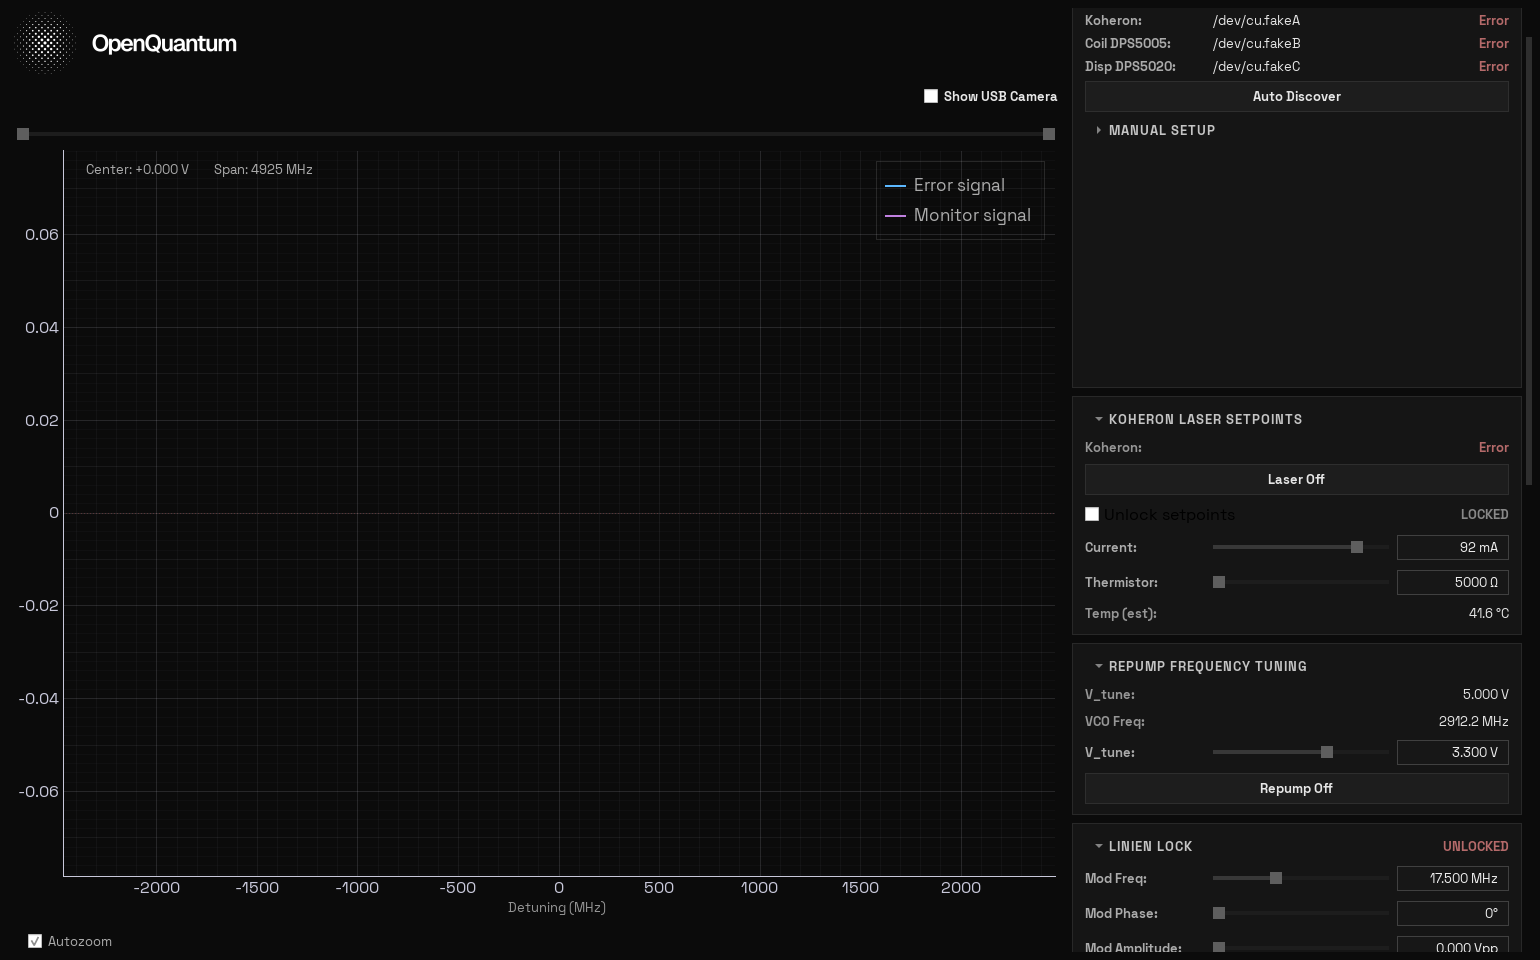
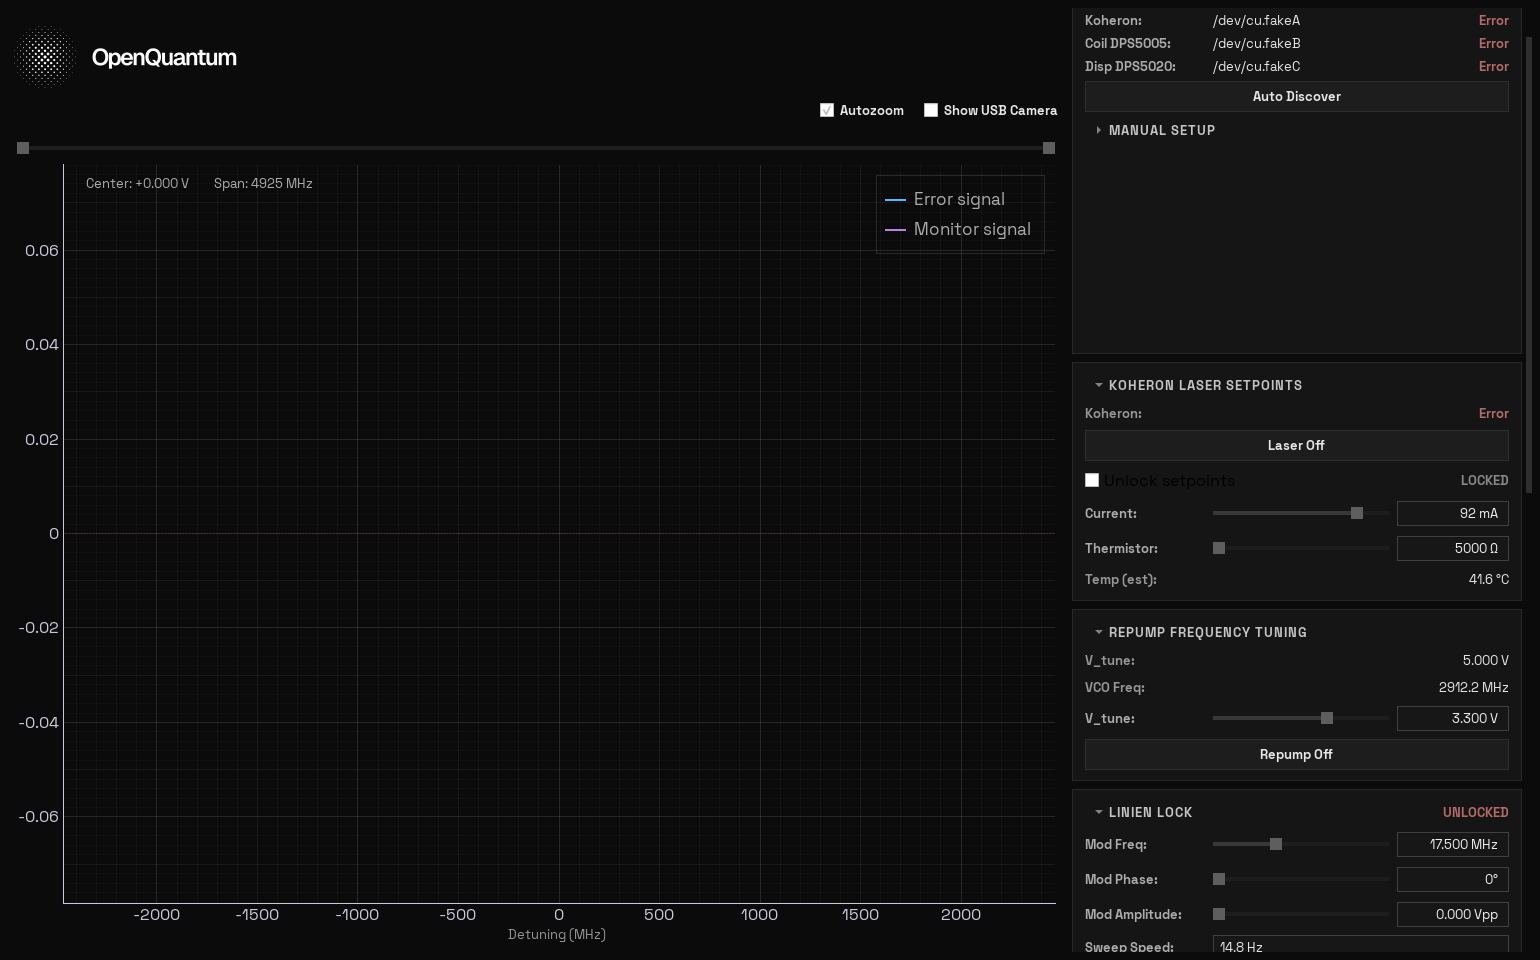
Move Autozoom beside the camera toggle; drop the A button and DPS Addr
pyqtgraph draws its own auto-range button -- a small "A" over the plot on
hover -- which Autozoom replaces, so hideButtons() turns it off.

Autozoom moves up beside Show USB Camera with the other view controls.
It is still built by the Linien widget, which owns the range logic, and
inserted into the view bar once that widget exists.

The DPS Modbus address spinboxes are gone from Manual setup. The
addresses are still settable via --mot-coil-address/--dispenser-address
and still persist, they just read from the attributes rather than from
widgets.

Logo drops 14px on its top padding.

diff --git a/mot_control.py b/mot_control.py
@@ -1097,7 +1097,7 @@ class OpenQuantumControlsWindow(QtWidgets.QMainWindow):
 
         title_row = QtWidgets.QHBoxLayout()
         self.title_label = QtWidgets.QLabel()
-        self.title_label.setStyleSheet("border: none; padding: 4px 6px;")
+        self.title_label.setStyleSheet("border: none; padding: 18px 6px 4px 6px;")
         logo = QtGui.QPixmap(resource_path("assets", "full-horizontal.png"))
         if logo.isNull():
             # Bundled asset missing (broken build): fall back to the
@@ -1166,6 +1166,16 @@ class OpenQuantumControlsWindow(QtWidgets.QMainWindow):
         self.linien_widget = LinienWidget(
             linien_host=self._rp_host,
             v_to_freq_ghz=V_TO_GHZ,
+        )
+        # Built by the Linien widget (it owns the range logic) but shown up
+        # here beside the camera toggle, with the other view controls.
+        view_bar.insertWidget(
+            view_bar.count() - 1, self.linien_widget.autozoom_check
+        )
+        self._tip(
+            "Keep the vertical range tracking the signal. Uncheck to hold\n"
+            "the current zoom.",
+            self.linien_widget.autozoom_check,
         )
         self.camera_widget = CameraViewWidget()
         self.camera_widget.setVisible(False)
@@ -1441,29 +1451,6 @@ class OpenQuantumControlsWindow(QtWidgets.QMainWindow):
             )
         )
 
-        addr_row = QtWidgets.QHBoxLayout()
-        addr_row.setSpacing(8)
-        addr_row.addWidget(self._small_label("DPS Addr:"))
-        self.mot_coil_addr_spin = QtWidgets.QSpinBox()
-        self.mot_coil_addr_spin.setRange(1, 247)
-        self.mot_coil_addr_spin.setValue(self._mot_coil_address)
-        self.mot_coil_addr_spin.setFixedWidth(72)
-        self.dispenser_addr_spin = QtWidgets.QSpinBox()
-        self.dispenser_addr_spin.setRange(1, 247)
-        self.dispenser_addr_spin.setValue(self._dispenser_address)
-        self.dispenser_addr_spin.setFixedWidth(72)
-        addr_row.addWidget(self._tiny_label("Coil"))
-        addr_row.addWidget(self.mot_coil_addr_spin)
-        addr_row.addWidget(self._tiny_label("Disp"))
-        addr_row.addWidget(self.dispenser_addr_spin)
-        addr_row.addStretch()
-        manual_layout.addLayout(addr_row)
-        self._tip(
-            "Modbus slave addresses of the DPS supplies (front panel\n"
-            "setting; usually 1).",
-            self.mot_coil_addr_spin,
-            self.dispenser_addr_spin,
-        )
 
         # No separate discovered-devices list: the dropdowns above are the
         # list. This line only reports how many were found.
@@ -2197,8 +2184,8 @@ class OpenQuantumControlsWindow(QtWidgets.QMainWindow):
                 "mot_coil": self.mot_coil_port_edit.text().strip(),
                 "dispenser": self.dispenser_port_edit.text().strip(),
             },
-            coil_address=self.mot_coil_addr_spin.value(),
-            dispenser_address=self.dispenser_addr_spin.value(),
+            coil_address=self._mot_coil_address,
+            dispenser_address=self._dispenser_address,
         )
         self.probe_worker.result.connect(
             lambda res: self._on_probe_result(res, startup)
@@ -2287,10 +2274,10 @@ class OpenQuantumControlsWindow(QtWidgets.QMainWindow):
             "dps/dispenser_port", self.dispenser_port_edit.text().strip()
         )
         self._settings.setValue(
-            "dps/mot_coil_address", self.mot_coil_addr_spin.value()
+            "dps/mot_coil_address", self._mot_coil_address
         )
         self._settings.setValue(
-            "dps/dispenser_address", self.dispenser_addr_spin.value()
+            "dps/dispenser_address", self._dispenser_address
         )
         self._settings.setValue("dac/vtune_min", self._vtune_min)
         self._settings.setValue("dac/vtune_max", self._vtune_max)
@@ -2312,7 +2299,7 @@ class OpenQuantumControlsWindow(QtWidgets.QMainWindow):
     def _start_dps_workers(self):
         self.mot_coil_worker = RidenDPSWorker(
             port=self.mot_coil_port_edit.text().strip(),
-            address=self.mot_coil_addr_spin.value(),
+            address=self._mot_coil_address,
             model="DPS5005",
         )
         self.mot_coil_worker.connection_status.connect(
@@ -2329,7 +2316,7 @@ class OpenQuantumControlsWindow(QtWidgets.QMainWindow):
 
         self.dispenser_worker = DispenserWorker(
             port=self.dispenser_port_edit.text().strip(),
-            address=self.dispenser_addr_spin.value(),
+            address=self._dispenser_address,
             model="DPS5020",
             cooldown_until=self._dispenser_cooldown_until,
             fire_seconds=self._dispenser_fire_seconds,
@@ -2964,8 +2951,8 @@ class OpenQuantumControlsWindow(QtWidgets.QMainWindow):
                 "laser_port": self.laser_edit.text().strip(),
                 "mot_coil_port": self.mot_coil_port_edit.text().strip(),
                 "dispenser_port": self.dispenser_port_edit.text().strip(),
-                "mot_coil_address": self.mot_coil_addr_spin.value(),
-                "dispenser_address": self.dispenser_addr_spin.value(),
+                "mot_coil_address": self._mot_coil_address,
+                "dispenser_address": self._dispenser_address,
             },
             "linien": {
                 "mod_freq_khz": self.mod_freq_slider.value(),
@@ -3069,11 +3056,9 @@ class OpenQuantumControlsWindow(QtWidgets.QMainWindow):
             if key in connection:
                 edit.setText(str(connection[key]))
         if "mot_coil_address" in connection:
-            self.mot_coil_addr_spin.setValue(int(connection["mot_coil_address"]))
+            self._mot_coil_address = int(connection["mot_coil_address"])
         if "dispenser_address" in connection:
-            self.dispenser_addr_spin.setValue(
-                int(connection["dispenser_address"])
-            )
+            self._dispenser_address = int(connection["dispenser_address"])
 
         linien = config.get("linien", {})
         for key, slider in (

diff --git a/linien_widget.py b/linien_widget.py
@@ -95,6 +95,10 @@ class LinienWidget(QtWidgets.QWidget):
             self.plot.setLabel("bottom", "Sweep Voltage (V)",
                                **{"font-size": "10pt", "color": "#969696"})
 
+        # pyqtgraph's own auto-range button: a small "A" that appears over
+        # the plot on hover. Autozoom replaces it.
+        self.plot.hideButtons()
+
         self.plot.setYRange(-0.05, 0.10)
         init_xmin, init_xmax = self._v_range_to_display(
             self._sweep_min_v, self._sweep_max_v)
@@ -155,20 +159,17 @@ class LinienWidget(QtWidgets.QWidget):
         # Nothing but labels sits over the traces. The lock controls are
         # handed to the host window (see lock_controls) so they can live in
         # the Linien Lock card, and autozoom sits under the plot.
-        foot = QtWidgets.QHBoxLayout()
-        foot.setContentsMargins(20, 2, 8, 2)
-        foot.setSpacing(8)
+        # Unparented: the host window places this with its other view
+        # controls (see autozoom_check).
         self.autozoom_check = QtWidgets.QCheckBox("Autozoom")
         self.autozoom_check.setChecked(True)
         self.autozoom_check.setCursor(QtCore.Qt.PointingHandCursor)
         self.autozoom_check.setStyleSheet(
-            "QCheckBox { color: #ababab; font-size: 13px; border: none; }"
+            "QCheckBox { color: #e6e6e6; font-size: 13px; font-weight: 700;"
+            "border: none; padding: 4px 6px; }"
             "QCheckBox::indicator { width: 14px; height: 14px; }"
         )
         self.autozoom_check.toggled.connect(self._set_autozoom)
-        foot.addWidget(self.autozoom_check)
-        foot.addStretch()
-        layout.addLayout(foot)
         self._set_autozoom(True)
 
         self.lock_controls = QtWidgets.QWidget()
